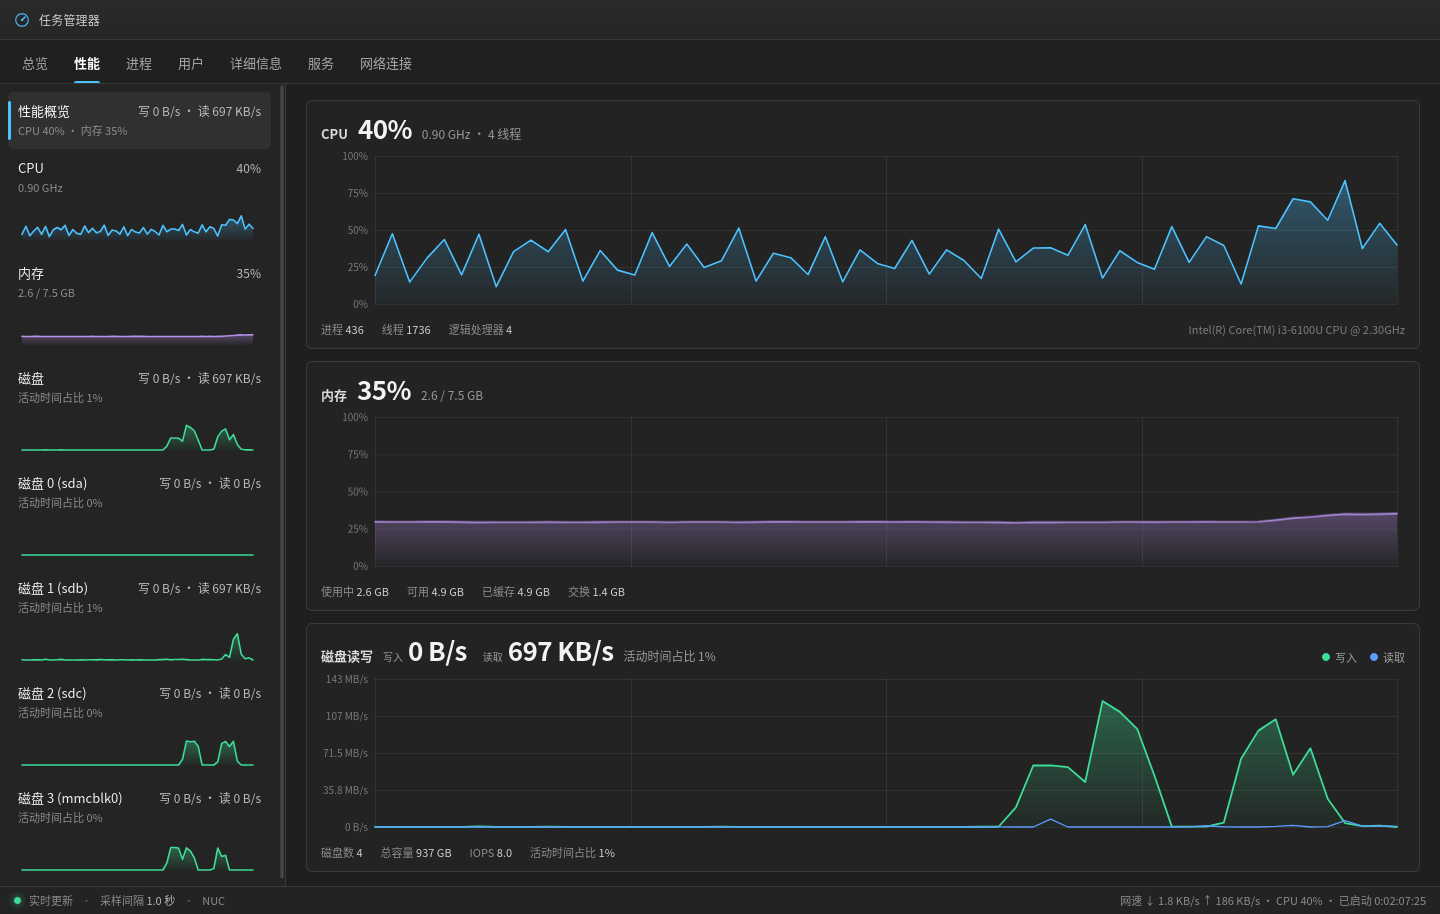
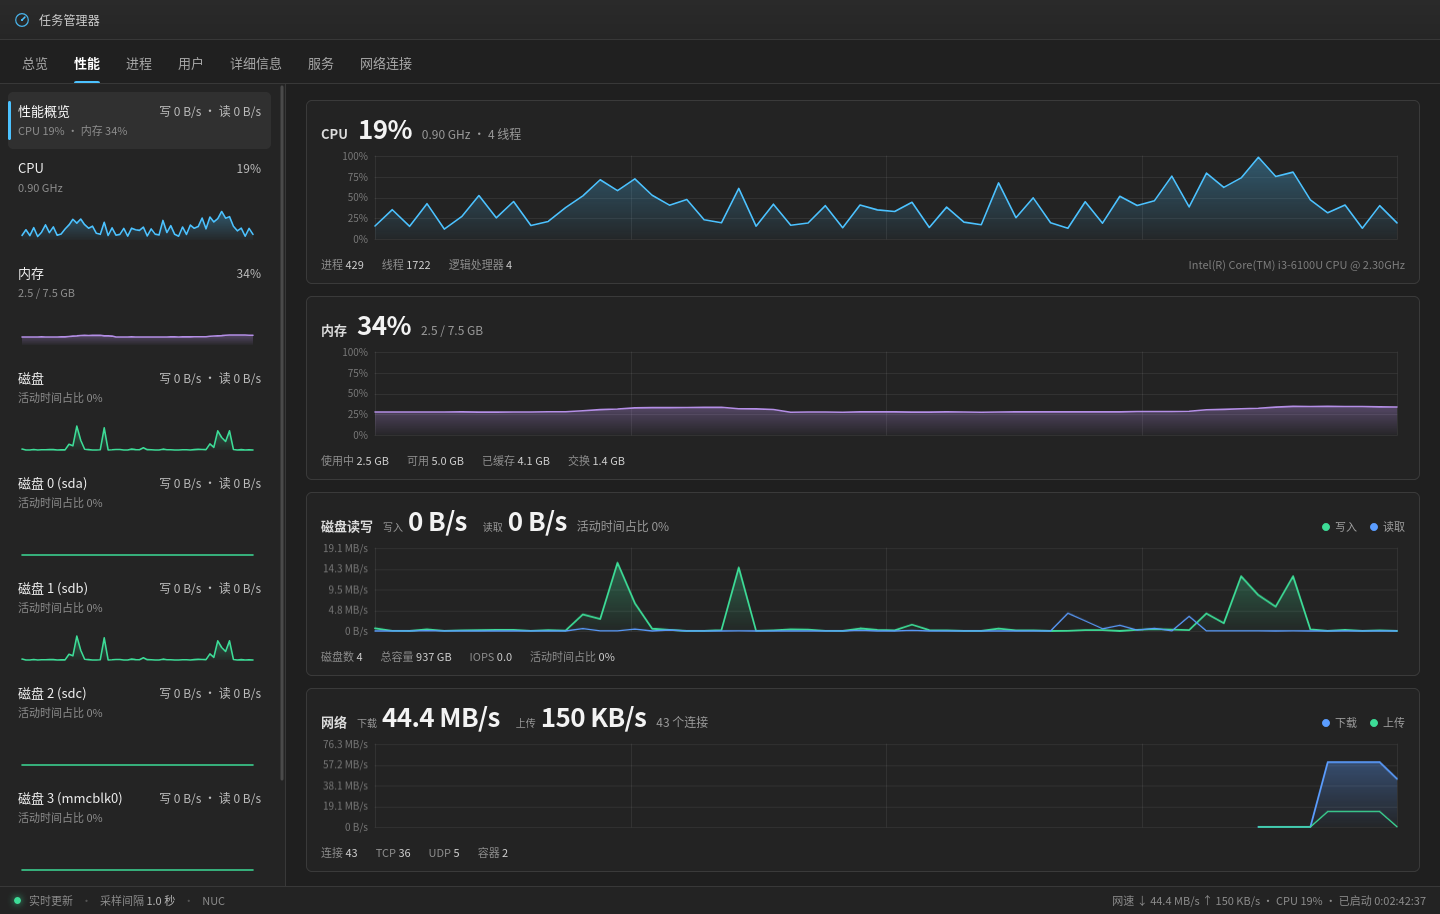
Add network upload/download charts to performance page

diff --git a/public/app.js b/public/app.js
@@ -15,6 +15,7 @@
   const state = {
     info: null,
     samples: [],
+    networkSeries: [],
     view: 'overview',
     diskName: null,
     diskSig: '',
@@ -465,6 +466,21 @@
     );
   }
 
+  function netTooltip(payload) {
+    if (!payload) return hideTooltip();
+    const down = payload.values[0];
+    const up = payload.values[1];
+    showTooltip(
+      timeLabel(payload.index),
+      [
+        { color: COLORS.read, label: '下载', value: down == null ? '—' : fmtRate(down) },
+        { color: COLORS.disk, label: '上传', value: up == null ? '—' : fmtRate(up) },
+      ],
+      payload.x,
+      payload.y
+    );
+  }
+
   /* ------------------------------------------------------------------ */
   /* 图表初始化                                                          */
   /* ------------------------------------------------------------------ */
@@ -479,6 +495,14 @@
       max: 100,
       grid: false,
       series: [{ color: COLORS.mem, fill: true }],
+    });
+    charts.sideNet = new Chart($('#sideNetChart'), {
+      minScale: 1024,
+      grid: false,
+      series: [
+        { color: COLORS.read, fill: true, width: 1.4 },
+        { color: COLORS.disk, fill: false, width: 1.2 },
+      ],
     });
 
     charts.ovCpu = new Chart($('#ovCpuChart'), {
@@ -500,6 +524,15 @@
       series: [
         { color: COLORS.disk, fill: true, width: 1.8 },
         { color: COLORS.read, fill: false, width: 1.3 },
+      ],
+    });
+    charts.ovNet = new Chart($('#ovNetChart'), {
+      minScale: 1024,
+      yLabels: true,
+      yFormat: (v) => fmtRate(v),
+      series: [
+        { color: COLORS.read, fill: true, width: 1.8 },
+        { color: COLORS.disk, fill: false, width: 1.3 },
       ],
     });
 
@@ -530,6 +563,24 @@
         { color: COLORS.read, fill: false, width: 1.3 },
       ],
     });
+    charts.net = new Chart($('#netChart'), {
+      minScale: 1024,
+      labels: true,
+      yFormat: (v) => fmtRate(v),
+      hover: true,
+      tooltip: netTooltip,
+      series: [
+        { color: COLORS.read, fill: true, width: 1.8 },
+        { color: COLORS.disk, fill: false, width: 1.3 },
+      ],
+    });
+    state.networkRow = {
+      el: $('#resNetwork'),
+      valEl: $('#resNetVal'),
+      subEl: $('#resNetSub'),
+    };
+    const netCard = $('#ovNetCard');
+    if (netCard) netCard.addEventListener('click', () => showView('network'));
   }
 
   /* ------------------------------------------------------------------ */
@@ -615,6 +666,7 @@
     if (view === 'overview') return [charts.ovCpu, charts.ovMem, charts.ovDisk];
     if (view === 'cpu') return [charts.cpu];
     if (view === 'mem') return [charts.mem];
+    if (view === 'network') return [charts.net];
     return [charts.disk];
   }
 
@@ -876,6 +928,52 @@
     setText('#stDiskLatency', `${diskData.latencyMs.toFixed(2)} ms`);
     setText('#stDiskIops', diskData.iops.toFixed(1));
     setText('#tblDiskState', diskData.busy > 1 ? '活动' : '空闲');
+
+    /* 网络 */
+    const netSummary = state.network && state.network.summary;
+    const netRecv = netSummary ? netSummary.recvBps || 0 : 0;
+    const netSend = netSummary ? netSummary.sendBps || 0 : 0;
+    const lastNet = state.networkSeries[state.networkSeries.length - 1];
+    if (!lastNet || lastNet.t !== last.t) {
+      state.networkSeries.push({ recv: netRecv, send: netSend, t: last.t });
+      if (state.networkSeries.length > WINDOW) state.networkSeries.shift();
+    }
+    const netRecvSeries = pad60(state.networkSeries.map((item) => item.recv));
+    const netSendSeries = pad60(state.networkSeries.map((item) => item.send));
+    if (charts.sideNet) charts.sideNet.setData([netRecvSeries, netSendSeries]);
+    if (charts.ovNet) charts.ovNet.setData([netRecvSeries, netSendSeries]);
+    if (charts.net) charts.net.setData([netRecvSeries, netSendSeries]);
+
+    setText('#ovNetDown', fmtRate(netRecv));
+    setText('#ovNetUp', fmtRate(netSend));
+    setText('#ovNetMeta', netSummary ? `${netSummary.total} 个连接` : '—');
+    setText('#ovNetConns', netSummary ? netSummary.total : '—');
+    setText('#ovNetTcp', netSummary ? netSummary.tcp : '—');
+    setText('#ovNetUdp', netSummary ? netSummary.udp : '—');
+    setText('#ovNetContainers', netSummary ? netSummary.containers : '—');
+
+    setText('#netDown', fmtRate(netRecv));
+    setText('#netUp', fmtRate(netSend));
+    setText(
+      '#netSub',
+      netSummary
+        ? `${netSummary.total} 个连接 · TCP ${netSummary.tcp} · UDP ${netSummary.udp} · 近 10 秒平均`
+        : '—'
+    );
+    setText('#stNetDown', fmtRate(netRecv));
+    setText('#stNetUp', fmtRate(netSend));
+    setText('#stNetTotal', netSummary ? netSummary.total : '—');
+    setText('#stNetInbound', netSummary ? netSummary.inbound : '—');
+    setText('#stNetOutbound', netSummary ? netSummary.outbound : '—');
+    setText('#stNetListening', netSummary ? netSummary.listening : '—');
+    setText('#stNetTcp', netSummary ? netSummary.tcp : '—');
+    setText('#stNetUdp', netSummary ? netSummary.udp : '—');
+    setText('#stNetContainers', netSummary ? netSummary.containers : '—');
+
+    if (state.networkRow) {
+      state.networkRow.valEl.textContent = `↓ ${fmtRate(netRecv)} · ↑ ${fmtRate(netSend)}`;
+      state.networkRow.subEl.textContent = netSummary ? `${netSummary.total} 个连接` : '—';
+    }
 
     /* 状态栏 */
     updateFooterBrief();
@@ -1403,6 +1501,7 @@ function setPage(page) {
       viewCharts(state.view).forEach((chart) => chart.resize());
       if (charts.sideCpu) charts.sideCpu.resize();
       if (charts.sideMem) charts.sideMem.resize();
+      if (charts.sideNet) charts.sideNet.resize();
       if (charts.sideDiskTotal) charts.sideDiskTotal.resize();
       for (const chart of diskCharts.values()) chart.resize();
       render();
@@ -2823,7 +2922,7 @@ async function loadProcesses() {
       const item = event.target.closest('.res-item');
       if (!item) return;
       const key = item.dataset.key;
-      if (key === 'overview' || key === 'cpu' || key === 'mem') {
+      if (key === 'overview' || key === 'cpu' || key === 'mem' || key === 'network') {
         showView(key);
         return;
       }

diff --git a/public/index.html b/public/index.html
@@ -54,6 +54,12 @@
       </button>
 
       <div id="diskItems"></div>
+
+      <button type="button" class="res-item" data-key="network" id="resNetwork">
+        <div class="res-top"><span class="res-name">网络</span><span class="res-val" id="resNetVal">--</span></div>
+        <div class="res-sub" id="resNetSub">--</div>
+        <div class="mini-chart"><canvas id="sideNetChart"></canvas></div>
+      </button>
     </aside>
 
     <main class="detail">
@@ -363,6 +369,25 @@
               <span>活动时间占比 <b id="ovDiskBusy">--</b></span>
             </footer>
           </article>
+
+          <article class="ov-card" id="ovNetCard" title="点击查看网络详情">
+            <header class="ov-head">
+              <span class="ov-title">网络</span>
+              <span class="ov-disk-dual">
+                <span class="ov-disk-item"><span class="ov-disk-label">下载</span><span class="ov-value" id="ovNetDown">--</span></span>
+                <span class="ov-disk-item"><span class="ov-disk-label">上传</span><span class="ov-value" id="ovNetUp">--</span></span>
+              </span>
+              <span class="ov-meta" id="ovNetMeta">--</span>
+              <span class="legend"><i class="dot read"></i>下载<i class="dot write"></i>上传</span>
+            </header>
+            <div class="ov-chart"><canvas id="ovNetChart"></canvas></div>
+            <footer class="ov-foot">
+              <span>连接 <b id="ovNetConns">--</b></span>
+              <span>TCP <b id="ovNetTcp">--</b></span>
+              <span>UDP <b id="ovNetUdp">--</b></span>
+              <span>容器 <b id="ovNetContainers">--</b></span>
+            </footer>
+          </article>
         </div>
       </section>
 
@@ -475,6 +500,46 @@
           <div><span>型号</span><b id="tblDiskModel">--</b></div>
           <div><span>类型</span><b id="tblDiskType">--</b></div>
           <div><span>状态</span><b id="tblDiskState">--</b></div>
+        </footer>
+      </section>
+
+      <!-- ============================= 网络 ============================= -->
+      <section class="view" data-view="network" hidden>
+        <header class="detail-head">
+          <div class="head-main">
+            <h1 class="detail-title">网络</h1>
+            <div class="big-line disk-big-line">
+              <span class="disk-big-item read"><span class="big-val" id="netDown">--</span><span class="big-cap">下载速度</span></span>
+              <span class="disk-big-item write"><span class="big-val" id="netUp">--</span><span class="big-cap">上传速度</span></span>
+            </div>
+            <div class="big-sub" id="netSub">—</div>
+          </div>
+          <div class="head-side legend"><i class="dot read"></i>下载<i class="dot write"></i>上传</div>
+        </header>
+
+        <div class="detail-body">
+          <div class="chart-panel">
+            <div class="chart-frame"><canvas id="netChart"></canvas></div>
+          </div>
+          <aside class="stats-panel">
+            <div class="stat-row"><span>下载速度</span><b id="stNetDown">--</b></div>
+            <div class="stat-row"><span>上传速度</span><b id="stNetUp">--</b></div>
+            <div class="stat-row"><span>连接数</span><b id="stNetTotal">--</b></div>
+            <div class="stat-row"><span>入站</span><b id="stNetInbound">--</b></div>
+            <div class="stat-row"><span>出站</span><b id="stNetOutbound">--</b></div>
+            <div class="stat-row"><span>监听</span><b id="stNetListening">--</b></div>
+            <div class="stat-sep"></div>
+            <div class="stat-row"><span>TCP</span><b id="stNetTcp">--</b></div>
+            <div class="stat-row"><span>UDP</span><b id="stNetUdp">--</b></div>
+            <div class="stat-row"><span>容器</span><b id="stNetContainers">--</b></div>
+          </aside>
+        </div>
+
+        <footer class="info-table">
+          <div><span>速率口径</span><b>近 10 秒平均</b></div>
+          <div><span>时间窗口</span><b>60 秒</b></div>
+          <div><span>下载</span><b>主机接收</b></div>
+          <div><span>上传</span><b>主机发送</b></div>
         </footer>
       </section>
       </div>

diff --git a/public/style.css b/public/style.css
@@ -305,7 +305,7 @@ body {
   flex: 1;
   min-height: 0;
   display: grid;
-  grid-template-rows: repeat(3, minmax(0, 1fr));
+  grid-template-rows: repeat(4, minmax(0, 1fr));
   gap: 12px;
 }
 
@@ -2770,4 +2770,13 @@ body {
   font-family: "Cascadia Mono", "Noto Sans Mono CJK SC", "DejaVu Sans Mono", Consolas, monospace;
   font-size: 10px;
   line-height: 1.25;
+}
+
+
+#ovNetCard {
+  cursor: pointer;
+}
+
+#ovNetCard:hover {
+  border-color: #4f6a7a;
 }
